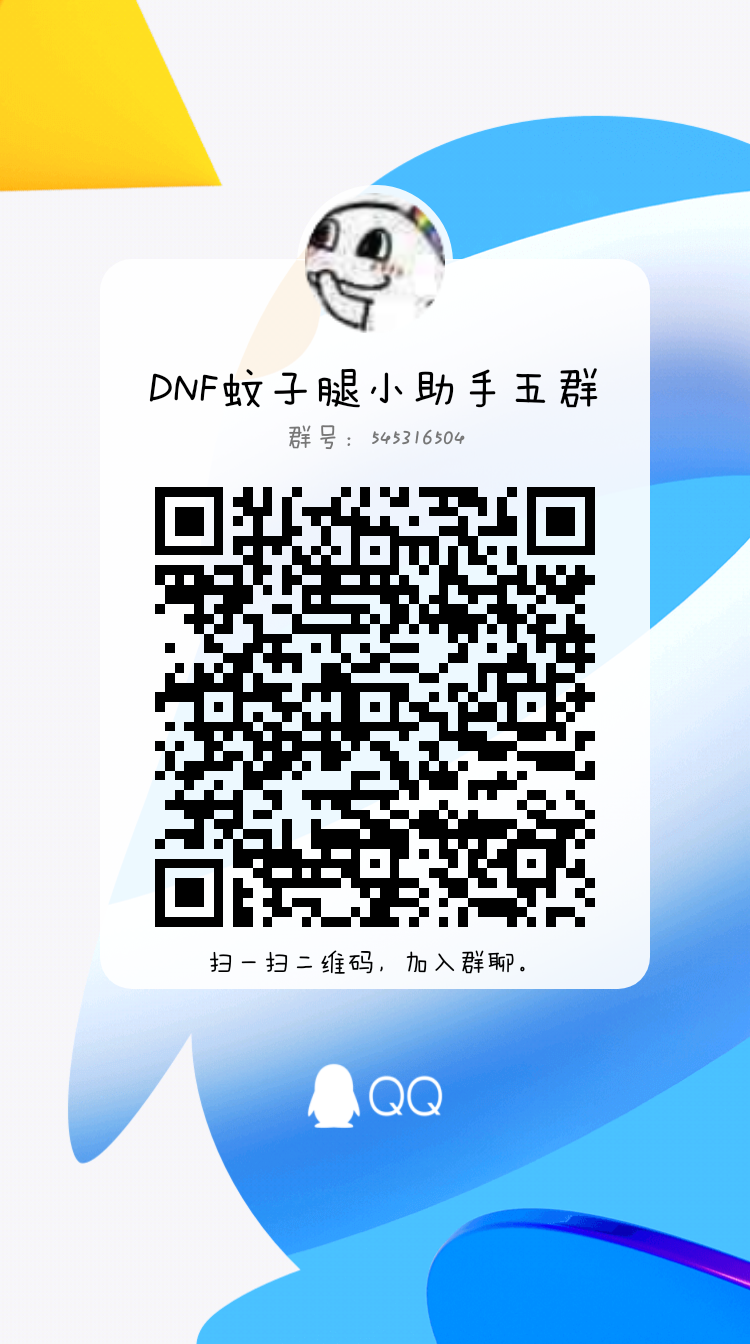
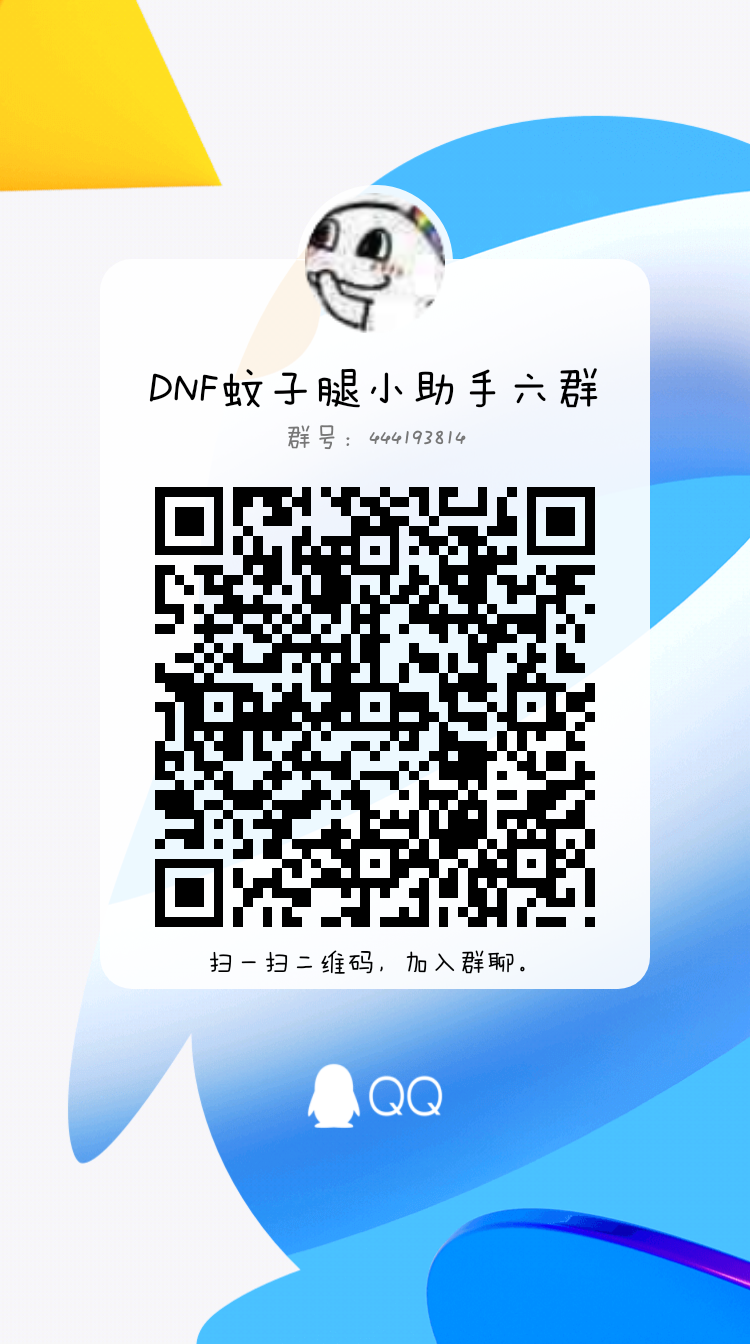
调整QQ群为六群

Changed region(s): [[0.184, 0.3125, 0.7973, 0.6875], [0.6747, 0.2812, 0.736, 0.3125]]

diff --git a/config_ui.py b/config_ui.py
@@ -342,8 +342,8 @@ class ConfigUi(QFrame):
         show_message("清除完毕", "登录状态已经清除完毕，可使用新账号重新运行~")
 
     def add_group(self, checked=False):
-        # note: 如果群 545316504 满了，到 https://qun.qq.com/join.html 获取新群的加群链接 @2021-02-13 01:41:03 By Chen Ji
-        webbrowser.open("https://qm.qq.com/cgi-bin/qm/qr?k=-8eY8yyskuXT3uoZKF85w7cJ3BuJ6FY7&jump_from=webapi")
+        # note: 如果群 444193814 满了，到 https://qun.qq.com/join.html 获取新群的加群链接 @2021-02-13 01:41:03 By Chen Ji
+        webbrowser.open("https://qm.qq.com/cgi-bin/qm/qr?k=vSEAVsoTbqJOKqp4bVpxnExEYOahOjcZ&jump_from=webapi")
         self.popen("DNF蚊子腿小助手交流群群二维码.jpg")
 
     def add_account(self, checked=False):

diff --git a/config.py b/config.py
@@ -572,7 +572,7 @@ class CommonConfig(ConfigInterface):
         # 网盘地址
         self.netdisk_link = "https://fzls.lanzoui.com/s/djc-helper"
         # QQ群
-        self.qq_group = 545316504
+        self.qq_group = 444193814
         # 是否启用自动更新功能
         self.auto_update_on_start = True
         # 是否仅允许单个运行实例

diff --git a/README.MD b/README.MD
@@ -76,7 +76,8 @@ DNF蚊子腿小助手     553925117 (已满) <br>
 DNF蚊子腿小助手二群 966403777 (已满) <br>
 DNF蚊子腿小助手三群 1041823293 (已满) <br>
 DNF蚊子腿小助手四群 743671885 (已满) <br>
-DNF蚊子腿小助手五群 545316504 <br>
+DNF蚊子腿小助手五群 545316504 (已满) <br>
+DNF蚊子腿小助手六群 444193814 <br>
 
 # 『重要』与个人隐私有关的skey相关说明
 1. skey是腾讯系应用的通用鉴权票据，个中风险，请Google搜索《腾讯skey》后自行评估

diff --git a/docs/README.md b/docs/README.md
@@ -76,7 +76,8 @@ DNF蚊子腿小助手     553925117 (已满) <br>
 DNF蚊子腿小助手二群 966403777 (已满) <br>
 DNF蚊子腿小助手三群 1041823293 (已满) <br>
 DNF蚊子腿小助手四群 743671885 (已满) <br>
-DNF蚊子腿小助手五群 545316504 <br>
+DNF蚊子腿小助手五群 545316504 (已满) <br>
+DNF蚊子腿小助手六群 444193814 <br>
 
 # 『重要』与个人隐私有关的skey相关说明
 1. skey是腾讯系应用的通用鉴权票据，个中风险，请Google搜索《腾讯skey》后自行评估
